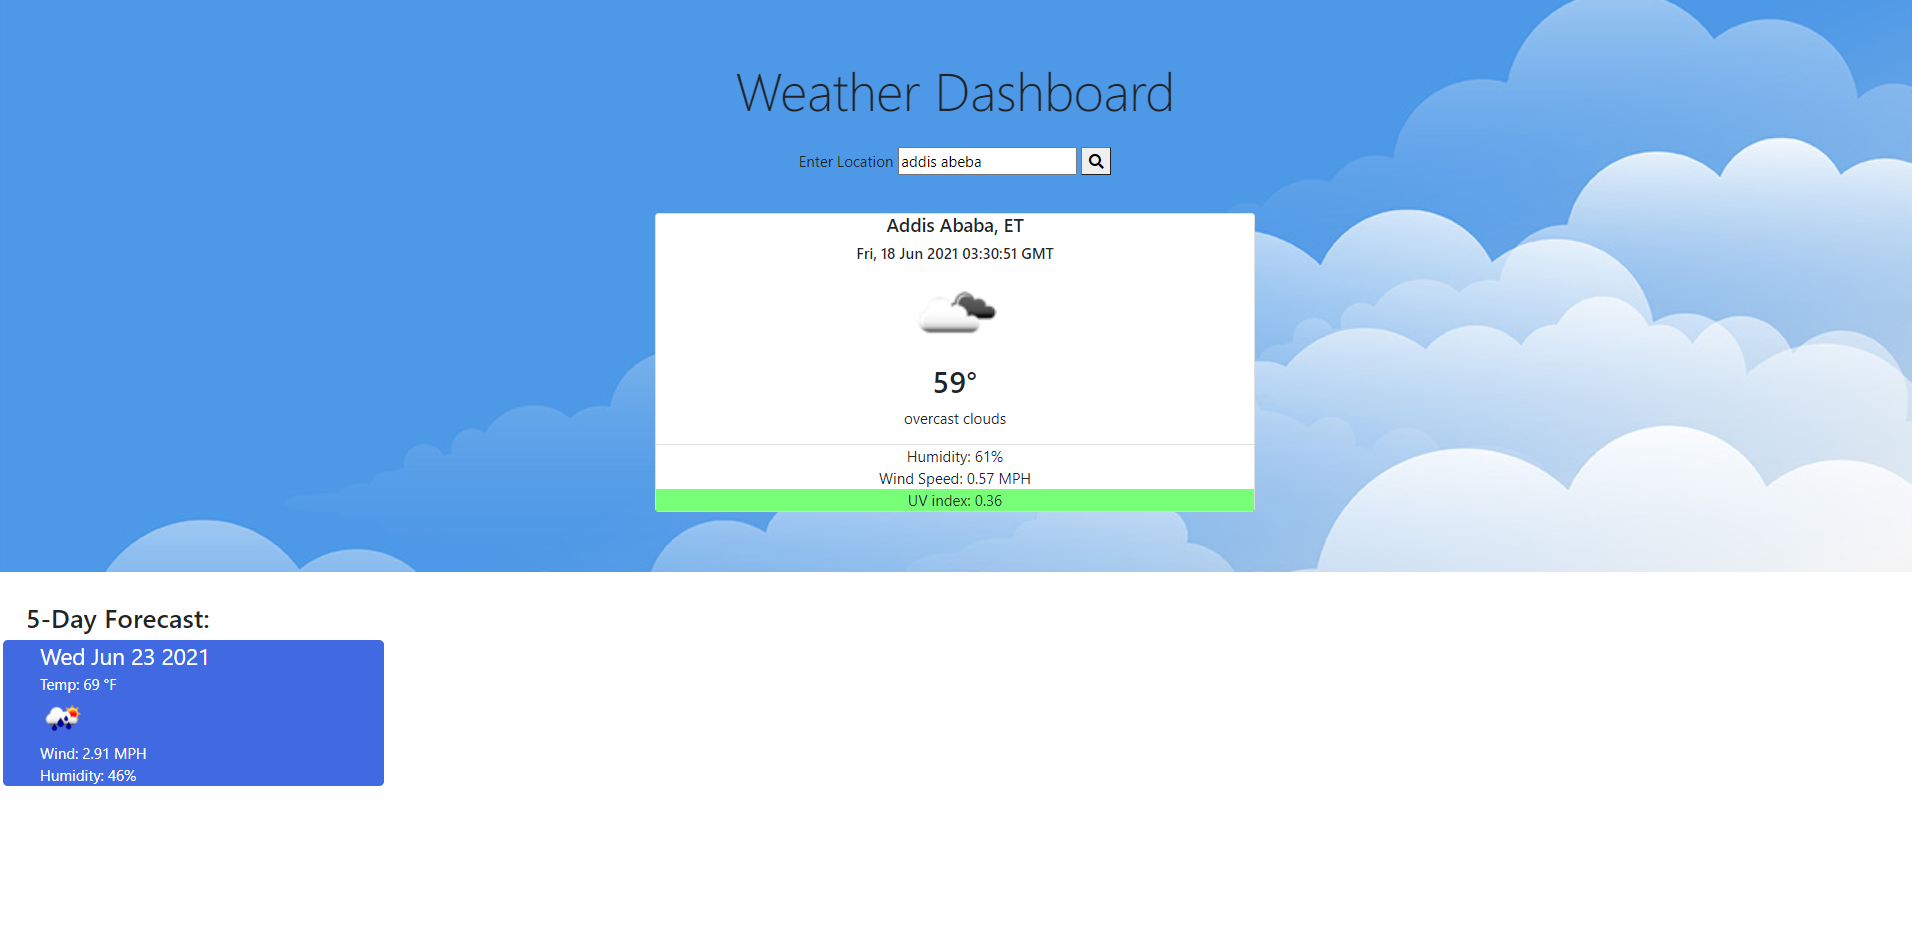
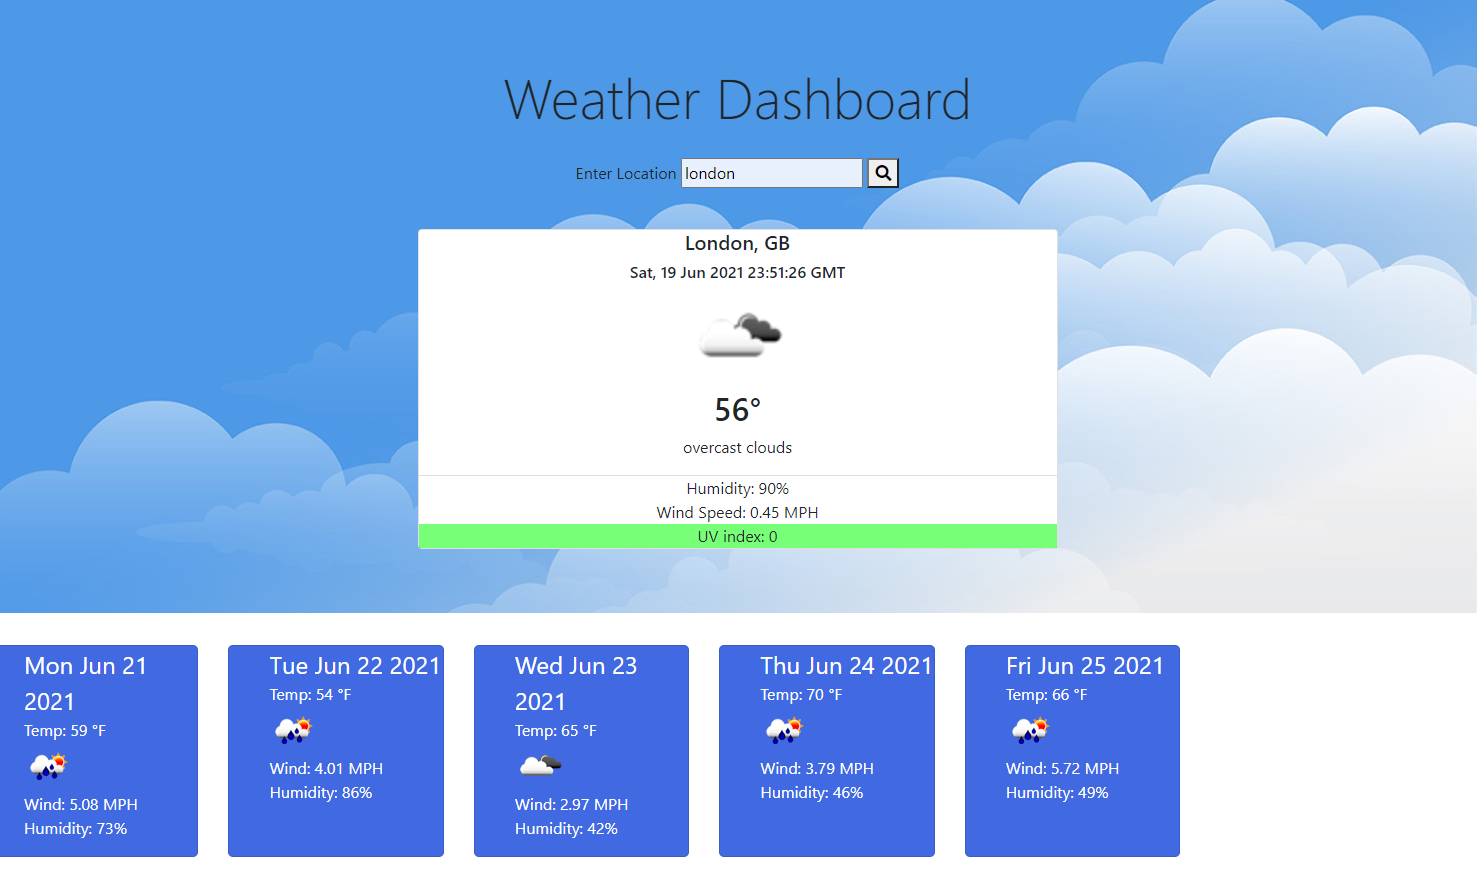
5 day forecast fix and readme update

diff --git a/Assets/JS/script.js b/Assets/JS/script.js
@@ -130,8 +130,9 @@ function displayData(response){
                                 <li>Humidity: ${dailyHumidity}%</li>
                             </ul>
                         </div>`
+                forecastElement.innerHTML += displayDailyForecast
 
-                forecastElement.append(displayDailyForecast);
+                // forecastElement.append(displayDailyForecast);
 
                 console.log(displayDailyForecast)
             }

diff --git a/index.html b/index.html
@@ -47,7 +47,7 @@
 
 
         <div class="card-deck row">
-            <div class="daily-forecast">
+            <div class=" row daily-forecast">
 
             </div>
 
